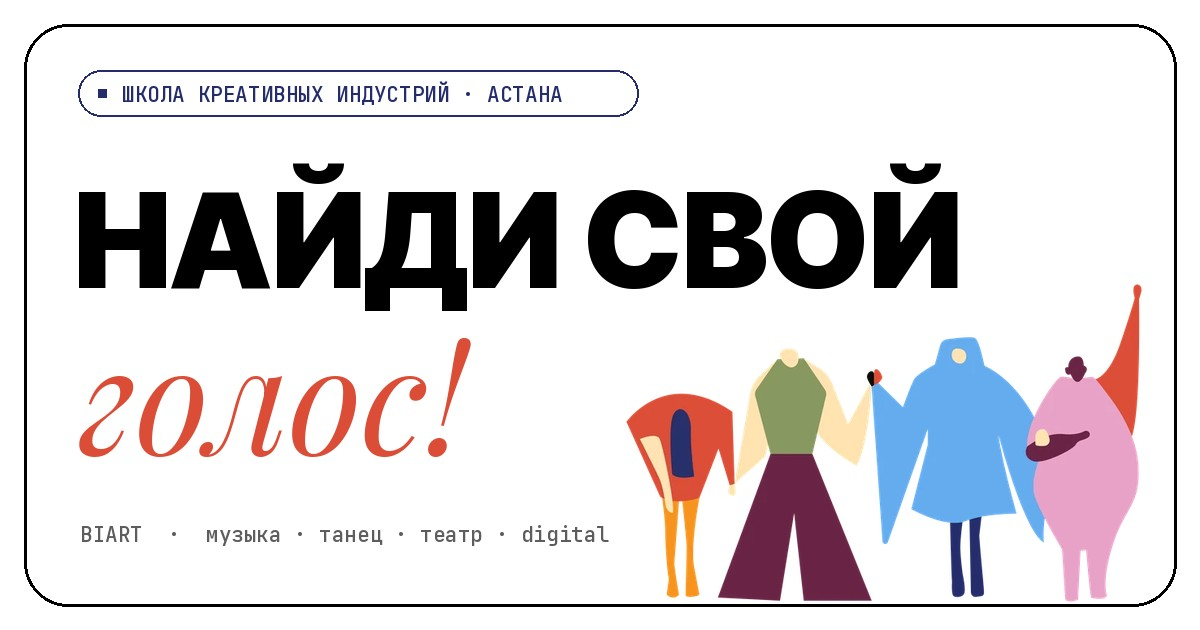
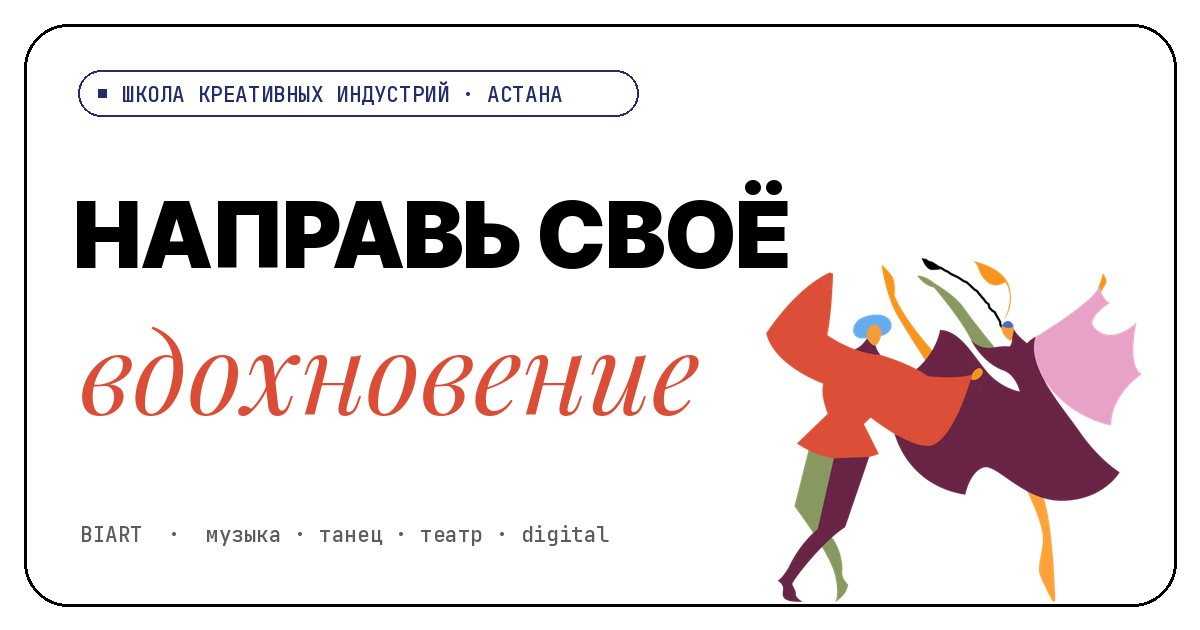
Возраст 5–17 лет везде (группы 5–10/11–13/14–17), «5 000 м²»; превью для соцсетей с новым слоганом

Changed region(s): [[0.0617, 0.2413, 0.9558, 0.9651]]

diff --git a/theme/content/home-kz.html b/theme/content/home-kz.html
@@ -51,7 +51,7 @@
 <!-- wp:column {"className":"about-text","verticalAlignment":"center"} -->
 <div class="wp-block-column about-text is-vertically-aligned-center">
 <!-- wp:paragraph {"className":"eyebrow"} --><p class="eyebrow">Мектеп туралы</p><!-- /wp:paragraph -->
-<!-- wp:heading {"className":"section-title about-title"} --><h2 class="wp-block-heading section-title about-title">BIART — 5 және 18 жас аралығындағы балалар мен ересектер шығармашылық арқылы өз таланттарын ашып, өзін-өзі көрсету қабілеттерін дамытатын және кәсіби тәлімгерлердің жетекшілігімен жаңа дағдыларды меңгеретін <em>креативті индустриялар мектебі</em>.</h2><!-- /wp:heading -->
+<!-- wp:heading {"className":"section-title about-title"} --><h2 class="wp-block-heading section-title about-title">BIART — 5 және 17 жас аралығындағы балалар мен ересектер шығармашылық арқылы өз таланттарын ашып, өзін-өзі көрсету қабілеттерін дамытатын және кәсіби тәлімгерлердің жетекшілігімен жаңа дағдыларды меңгеретін <em>креативті индустриялар мектебі</em>.</h2><!-- /wp:heading -->
 <!-- wp:paragraph {"className":"lead is-orange about-dirs-t"} --><p class="lead is-orange about-dirs-t">Бір кеңістік — 4 шығармашылық бағыт:</p><!-- /wp:paragraph -->
 <!-- wp:list {"className":"about-dirs"} --><ul class="wp-block-list about-dirs"><!-- wp:list-item --><li>Хореография</li><!-- /wp:list-item --><!-- wp:list-item --><li>Музыка өнері</li><!-- /wp:list-item --><!-- wp:list-item --><li>Актер шеберлігі</li><!-- /wp:list-item --><!-- wp:list-item --><li>Digital Arts</li><!-- /wp:list-item --></ul><!-- /wp:list -->
 </div>
@@ -80,7 +80,7 @@
 <!-- /wp:column -->
 <!-- wp:column {"className":"stat"} -->
 <div class="wp-block-column stat">
-<!-- wp:paragraph {"className":"stat-num"} --><p class="stat-num">5000 м²</p><!-- /wp:paragraph -->
+<!-- wp:paragraph {"className":"stat-num"} --><p class="stat-num">5 000 м²</p><!-- /wp:paragraph -->
 <!-- wp:paragraph {"className":"stat-txt"} --><p class="stat-txt">жеке кеңістік: музыка студиялары, би залдары, digital-зертханалар, өз сахнамыз</p><!-- /wp:paragraph -->
 </div>
 <!-- /wp:column -->

diff --git a/theme/content/napravleniya-kz.html b/theme/content/napravleniya-kz.html
@@ -26,7 +26,7 @@
 <div class="wp-block-button is-style-outline"><a class="wp-block-button__link wp-element-button" href="#age-11-13">11–13 жас</a></div>
 <!-- /wp:button -->
 <!-- wp:button {"className":"is-style-outline"} -->
-<div class="wp-block-button is-style-outline"><a class="wp-block-button__link wp-element-button" href="#age-14-17">14–18 жас</a></div>
+<div class="wp-block-button is-style-outline"><a class="wp-block-button__link wp-element-button" href="#age-14-17">14–17 жас</a></div>
 <!-- /wp:button -->
 <!-- wp:button {"className":"is-style-outline"} -->
 <div class="wp-block-button is-style-outline"><a class="wp-block-button__link wp-element-button" href="#age-all">Барлық жас</a></div>
@@ -383,7 +383,7 @@
 <!-- wp:group {"className":"dir-foot","layout":{"type":"default"}} -->
 <div class="wp-block-group dir-foot">
 <!-- wp:paragraph {"className":"dir-foot-kids"} --><p class="dir-foot-kids">Өз бағытыңызды таппадыңыз ба? Кез келген аспап немесе вокал — жеке, 80 000 ₸ айына. Менеджерге жазыңыз: баланың жасы мен қызығушылығына қарай курс таңдаймыз. <a href="/raspisanie-kz/">Жас бойынша кесте</a> — қай бағыт қай күндері және қай уақытта өтеді, <a href="/raspisanie-kz/#18">ересектер топтарымен</a> қоса.</p><!-- /wp:paragraph -->
-<!-- wp:paragraph {"className":"dir-foot-adult"} --><p class="dir-foot-adult">Ересектерге қазір DJ және спорттық-бальдық билер ашық. Қалған бағыттар — 5–18 жас аралығындағы балалар мен жасөспірімдерге арналған. Топ пен уақытты таңдау үшін менеджерге жазыңыз.</p><!-- /wp:paragraph -->
+<!-- wp:paragraph {"className":"dir-foot-adult"} --><p class="dir-foot-adult">Ересектерге қазір DJ және спорттық-бальдық билер ашық. Қалған бағыттар — 5–17 жас аралығындағы балалар мен жасөспірімдерге арналған. Топ пен уақытты таңдау үшін менеджерге жазыңыз.</p><!-- /wp:paragraph -->
 <!-- wp:buttons -->
 <div class="wp-block-buttons">
 <!-- wp:button {"className":"btn-primary"} -->

diff --git a/theme/content/home.html b/theme/content/home.html
@@ -51,7 +51,7 @@
 <!-- wp:column {"className":"about-text","verticalAlignment":"center"} -->
 <div class="wp-block-column about-text is-vertically-aligned-center">
 <!-- wp:paragraph {"className":"eyebrow"} --><p class="eyebrow">О школе</p><!-- /wp:paragraph -->
-<!-- wp:heading {"className":"section-title about-title"} --><h2 class="wp-block-heading section-title about-title">BIART — <em>школа креативных индустрий</em>, где дети от 5 до 18 лет и взрослые раскрывают свои таланты, навыки самовыражения через творчество и профессиональное наставничество.</h2><!-- /wp:heading -->
+<!-- wp:heading {"className":"section-title about-title"} --><h2 class="wp-block-heading section-title about-title">BIART — <em>школа креативных индустрий</em>, где дети от 5 до 17 лет и взрослые раскрывают свои таланты, навыки самовыражения через творчество и профессиональное наставничество.</h2><!-- /wp:heading -->
 <!-- wp:paragraph {"className":"lead is-orange about-dirs-t"} --><p class="lead is-orange about-dirs-t">Четыре направления в одном пространстве:</p><!-- /wp:paragraph -->
 <!-- wp:list {"className":"about-dirs"} --><ul class="wp-block-list about-dirs"><!-- wp:list-item --><li>Хореография</li><!-- /wp:list-item --><!-- wp:list-item --><li>Музыкальное искусство</li><!-- /wp:list-item --><!-- wp:list-item --><li>Актёрское мастерство</li><!-- /wp:list-item --><!-- wp:list-item --><li>Digital Arts</li><!-- /wp:list-item --></ul><!-- /wp:list -->
 </div>
@@ -80,7 +80,7 @@
 <!-- /wp:column -->
 <!-- wp:column {"className":"stat"} -->
 <div class="wp-block-column stat">
-<!-- wp:paragraph {"className":"stat-num"} --><p class="stat-num">5000 м²</p><!-- /wp:paragraph -->
+<!-- wp:paragraph {"className":"stat-num"} --><p class="stat-num">5 000 м²</p><!-- /wp:paragraph -->
 <!-- wp:paragraph {"className":"stat-txt"} --><p class="stat-txt">собственного пространства: музыкальные студии, танцевальные залы, digital-лаборатории, своя сцена</p><!-- /wp:paragraph -->
 </div>
 <!-- /wp:column -->

diff --git a/theme/content/napravleniya.html b/theme/content/napravleniya.html
@@ -26,7 +26,7 @@
 <div class="wp-block-button is-style-outline"><a class="wp-block-button__link wp-element-button" href="#age-11-13">11–13 лет</a></div>
 <!-- /wp:button -->
 <!-- wp:button {"className":"is-style-outline"} -->
-<div class="wp-block-button is-style-outline"><a class="wp-block-button__link wp-element-button" href="#age-14-17">14–18 лет</a></div>
+<div class="wp-block-button is-style-outline"><a class="wp-block-button__link wp-element-button" href="#age-14-17">14–17 лет</a></div>
 <!-- /wp:button -->
 <!-- wp:button {"className":"is-style-outline"} -->
 <div class="wp-block-button is-style-outline"><a class="wp-block-button__link wp-element-button" href="#age-all">Все возрасты</a></div>
@@ -383,7 +383,7 @@
 <!-- wp:group {"className":"dir-foot","layout":{"type":"default"}} -->
 <div class="wp-block-group dir-foot">
 <!-- wp:paragraph {"className":"dir-foot-kids"} --><p class="dir-foot-kids">Не нашли своё направление? Любой инструмент или вокал — индивидуально, 80 000 ₸ в месяц. Напишите менеджеру: подберём курс по возрасту и интересу ребёнка. <a href="/raspisanie/">Расписание по возрастам</a> — в какие дни и часы что работает, включая <a href="/raspisanie/#18">взрослые группы</a>.</p><!-- /wp:paragraph -->
-<!-- wp:paragraph {"className":"dir-foot-adult"} --><p class="dir-foot-adult">Для взрослых сейчас открыты DJ и спортивно-бальные танцы. Остальные направления — для детей и подростков 5–18 лет. Подобрать группу и время — напишите менеджеру.</p><!-- /wp:paragraph -->
+<!-- wp:paragraph {"className":"dir-foot-adult"} --><p class="dir-foot-adult">Для взрослых сейчас открыты DJ и спортивно-бальные танцы. Остальные направления — для детей и подростков 5–17 лет. Подобрать группу и время — напишите менеджеру.</p><!-- /wp:paragraph -->
 <!-- wp:buttons -->
 <div class="wp-block-buttons">
 <!-- wp:button {"className":"btn-primary"} -->

diff --git a/theme/content/faq-page-kz.html b/theme/content/faq-page-kz.html
@@ -49,7 +49,7 @@
 <!-- /wp:details -->
 <!-- wp:details {"className":"faq-item"} -->
 <details class="wp-block-details faq-item"><summary>Қай жастан бастап айналысуға болады?</summary>
-<!-- wp:paragraph --><p>5 жастан 18 жасқа дейінгі балаларды қабылдаймыз, ересектер (18+) үшін топтар бар (DJ және спорттық-бальдық билер). Топтар жас бойынша бөлінеді: 5–10, 11–13 және 14–18 жас — менеджер лайықтысын таңдайды.</p><!-- /wp:paragraph --></details>
+<!-- wp:paragraph --><p>5 жастан 17 жасқа дейінгі балаларды қабылдаймыз, ересектер (18+) үшін топтар бар (DJ және спорттық-бальдық билер). Топтар жас бойынша бөлінеді: 5–10, 11–13 және 14–17 жас — менеджер лайықтысын таңдайды.</p><!-- /wp:paragraph --></details>
 <!-- /wp:details -->
 <!-- wp:details {"className":"faq-item"} -->
 <details class="wp-block-details faq-item"><summary>Мектеп қайда орналасқан?</summary>

diff --git a/theme/content/faq-page.html b/theme/content/faq-page.html
@@ -49,7 +49,7 @@
 <!-- /wp:details -->
 <!-- wp:details {"className":"faq-item"} -->
 <details class="wp-block-details faq-item"><summary>С какого возраста можно заниматься?</summary>
-<!-- wp:paragraph --><p>Принимаем детей от 5 до 18 лет, есть группы для взрослых 18+ (DJ и спортивно-бальные танцы). Группы делятся по возрасту: 5–10, 11–13 и 14–18 лет — менеджер подберёт подходящую.</p><!-- /wp:paragraph --></details>
+<!-- wp:paragraph --><p>Принимаем детей от 5 до 17 лет, есть группы для взрослых 18+ (DJ и спортивно-бальные танцы). Группы делятся по возрасту: 5–10, 11–13 и 14–17 лет — менеджер подберёт подходящую.</p><!-- /wp:paragraph --></details>
 <!-- /wp:details -->
 <!-- wp:details {"className":"faq-item"} -->
 <details class="wp-block-details faq-item"><summary>Где находится школа?</summary>

diff --git a/theme/content/rent-kz.html b/theme/content/rent-kz.html
@@ -76,7 +76,7 @@
 <!-- wp:group {"className":"wrap space-head","layout":{"type":"default"}} -->
 <div class="wp-block-group wrap space-head">
 <!-- wp:paragraph {"className":"eyebrow"} --><p class="eyebrow">Кеңістік</p><!-- /wp:paragraph -->
-<!-- wp:heading {"className":"section-title"} --><h2 class="wp-block-heading section-title">Шығармашылыққа арналған <em>5000 м²</em></h2><!-- /wp:heading -->
+<!-- wp:heading {"className":"section-title"} --><h2 class="wp-block-heading section-title">Шығармашылыққа арналған <em>5 000 м²</em></h2><!-- /wp:heading -->
 <!-- wp:paragraph {"className":"section-lead"} --><p class="section-lead">Музыка студиялары, би залдары, digital-зертханалар және өз сахнамыз — галереяны парақтаңыз.</p><!-- /wp:paragraph -->
 </div>
 <!-- /wp:group -->

diff --git a/theme/content/_space-kz.html b/theme/content/_space-kz.html
@@ -5,7 +5,7 @@
 <!-- wp:group {"className":"wrap space-head","layout":{"type":"default"}} -->
 <div class="wp-block-group wrap space-head">
 <!-- wp:paragraph {"className":"eyebrow"} --><p class="eyebrow">Кеңістік</p><!-- /wp:paragraph -->
-<!-- wp:heading {"className":"section-title"} --><h2 class="wp-block-heading section-title">Шығармашылыққа арналған <em>5000 м²</em></h2><!-- /wp:heading -->
+<!-- wp:heading {"className":"section-title"} --><h2 class="wp-block-heading section-title">Шығармашылыққа арналған <em>5 000 м²</em></h2><!-- /wp:heading -->
 <!-- wp:paragraph {"className":"section-lead"} --><p class="section-lead">Музыка студиялары, би залдары, digital-зертханалар және өз сахнамыз — галереяны парақтаңыз.</p><!-- /wp:paragraph -->
 </div>
 <!-- /wp:group -->

diff --git a/theme/content/rent.html b/theme/content/rent.html
@@ -76,7 +76,7 @@
 <!-- wp:group {"className":"wrap space-head","layout":{"type":"default"}} -->
 <div class="wp-block-group wrap space-head">
 <!-- wp:paragraph {"className":"eyebrow"} --><p class="eyebrow">Пространство</p><!-- /wp:paragraph -->
-<!-- wp:heading {"className":"section-title"} --><h2 class="wp-block-heading section-title">5000 м² <em>для творчества</em></h2><!-- /wp:heading -->
+<!-- wp:heading {"className":"section-title"} --><h2 class="wp-block-heading section-title">5 000 м² <em>для творчества</em></h2><!-- /wp:heading -->
 <!-- wp:paragraph {"className":"section-lead"} --><p class="section-lead">Музыкальные студии, танцевальные залы, digital-лаборатории и собственная сцена — листайте галерею.</p><!-- /wp:paragraph -->
 </div>
 <!-- /wp:group -->

diff --git a/theme/content/_space-ru.html b/theme/content/_space-ru.html
@@ -5,7 +5,7 @@
 <!-- wp:group {"className":"wrap space-head","layout":{"type":"default"}} -->
 <div class="wp-block-group wrap space-head">
 <!-- wp:paragraph {"className":"eyebrow"} --><p class="eyebrow">Пространство</p><!-- /wp:paragraph -->
-<!-- wp:heading {"className":"section-title"} --><h2 class="wp-block-heading section-title">5000 м² <em>для творчества</em></h2><!-- /wp:heading -->
+<!-- wp:heading {"className":"section-title"} --><h2 class="wp-block-heading section-title">5 000 м² <em>для творчества</em></h2><!-- /wp:heading -->
 <!-- wp:paragraph {"className":"section-lead"} --><p class="section-lead">Музыкальные студии, танцевальные залы, digital-лаборатории и собственная сцена — листайте галерею.</p><!-- /wp:paragraph -->
 </div>
 <!-- /wp:group -->

diff --git a/theme/content/schedule.html b/theme/content/schedule.html
@@ -486,7 +486,7 @@
 <!-- /wp:group -->
 <!-- wp:group {"className":"sch-age","layout":{"type":"default"}} -->
 <div class="wp-block-group sch-age">
-<!-- wp:heading {"level":2,"className":"legal-h"} --><h2 class="wp-block-heading legal-h">14–18 лет</h2><!-- /wp:heading -->
+<!-- wp:heading {"level":2,"className":"legal-h"} --><h2 class="wp-block-heading legal-h">14–17 лет</h2><!-- /wp:heading -->
 <!-- wp:group {"className":"sch-group is-music","layout":{"type":"default"}} -->
 <div class="wp-block-group sch-group is-music">
 <!-- wp:paragraph {"className":"sch-block"} --><p class="sch-block">Музыкальное искусство</p><!-- /wp:paragraph -->

diff --git a/theme/content/schedule-kz.html b/theme/content/schedule-kz.html
@@ -486,7 +486,7 @@
 <!-- /wp:group -->
 <!-- wp:group {"className":"sch-age","layout":{"type":"default"}} -->
 <div class="wp-block-group sch-age">
-<!-- wp:heading {"level":2,"className":"legal-h"} --><h2 class="wp-block-heading legal-h">14–18 жас</h2><!-- /wp:heading -->
+<!-- wp:heading {"level":2,"className":"legal-h"} --><h2 class="wp-block-heading legal-h">14–17 жас</h2><!-- /wp:heading -->
 <!-- wp:group {"className":"sch-group is-music","layout":{"type":"default"}} -->
 <div class="wp-block-group sch-group is-music">
 <!-- wp:paragraph {"className":"sch-block"} --><p class="sch-block">Музыка өнері</p><!-- /wp:paragraph -->
